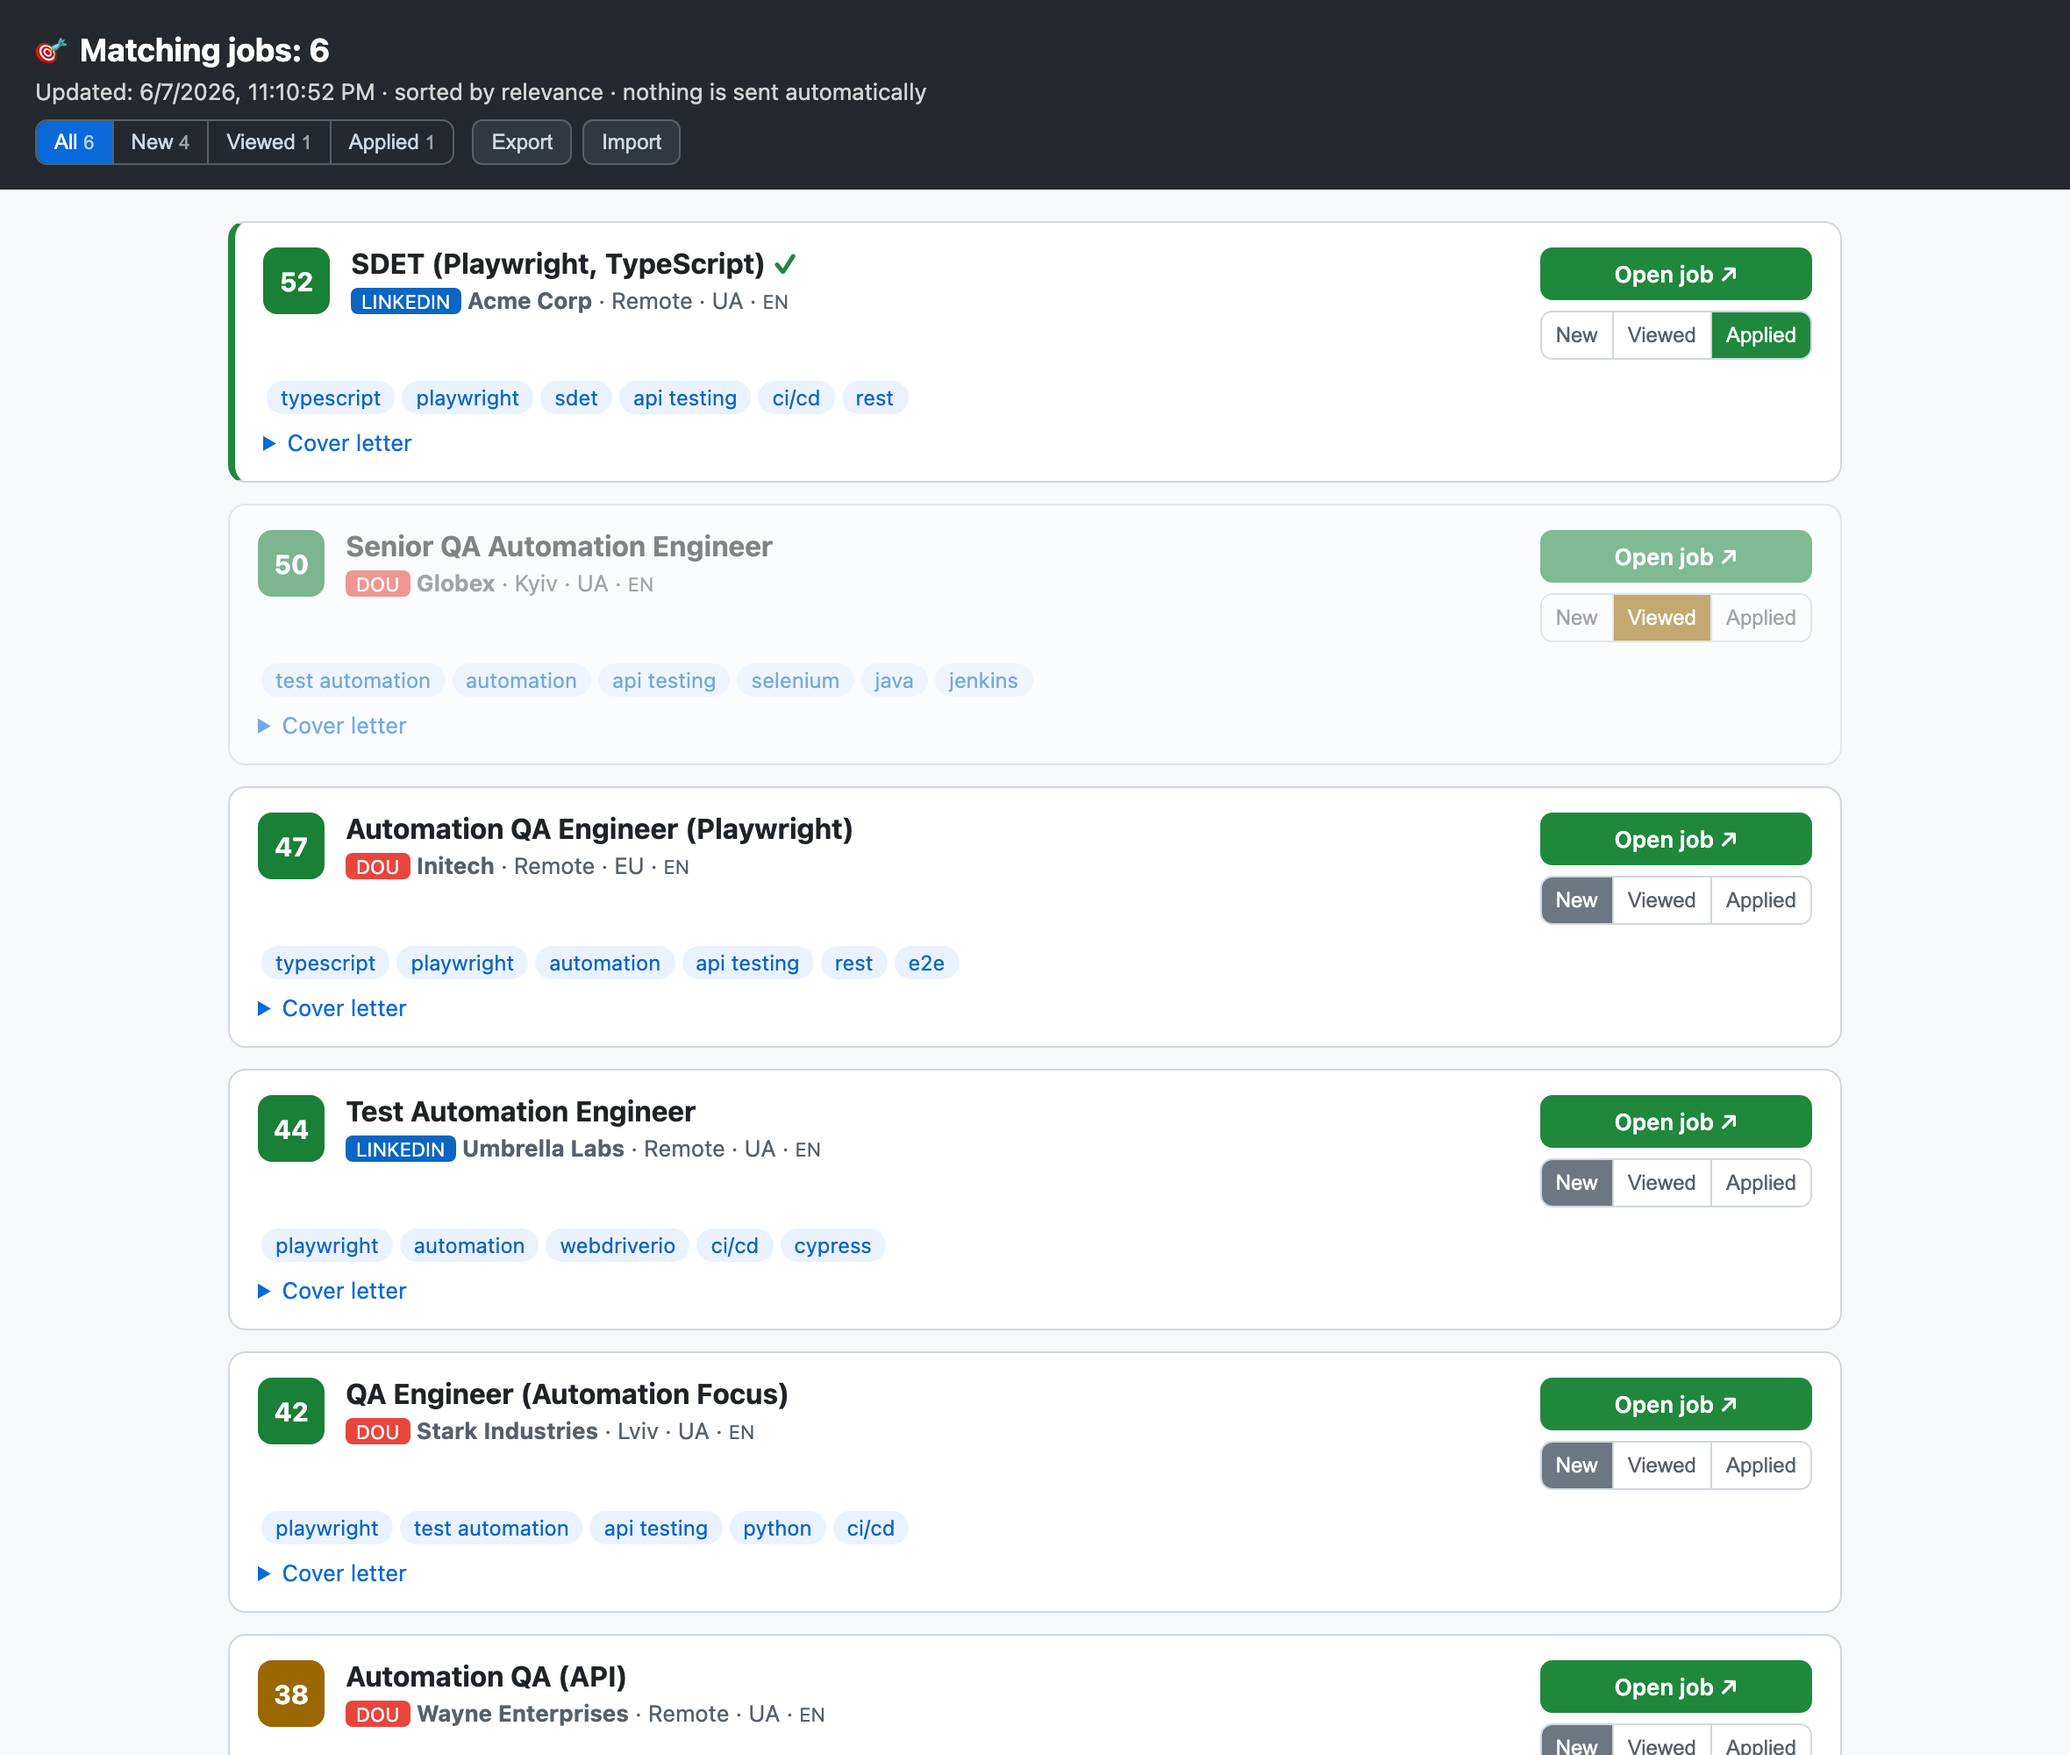
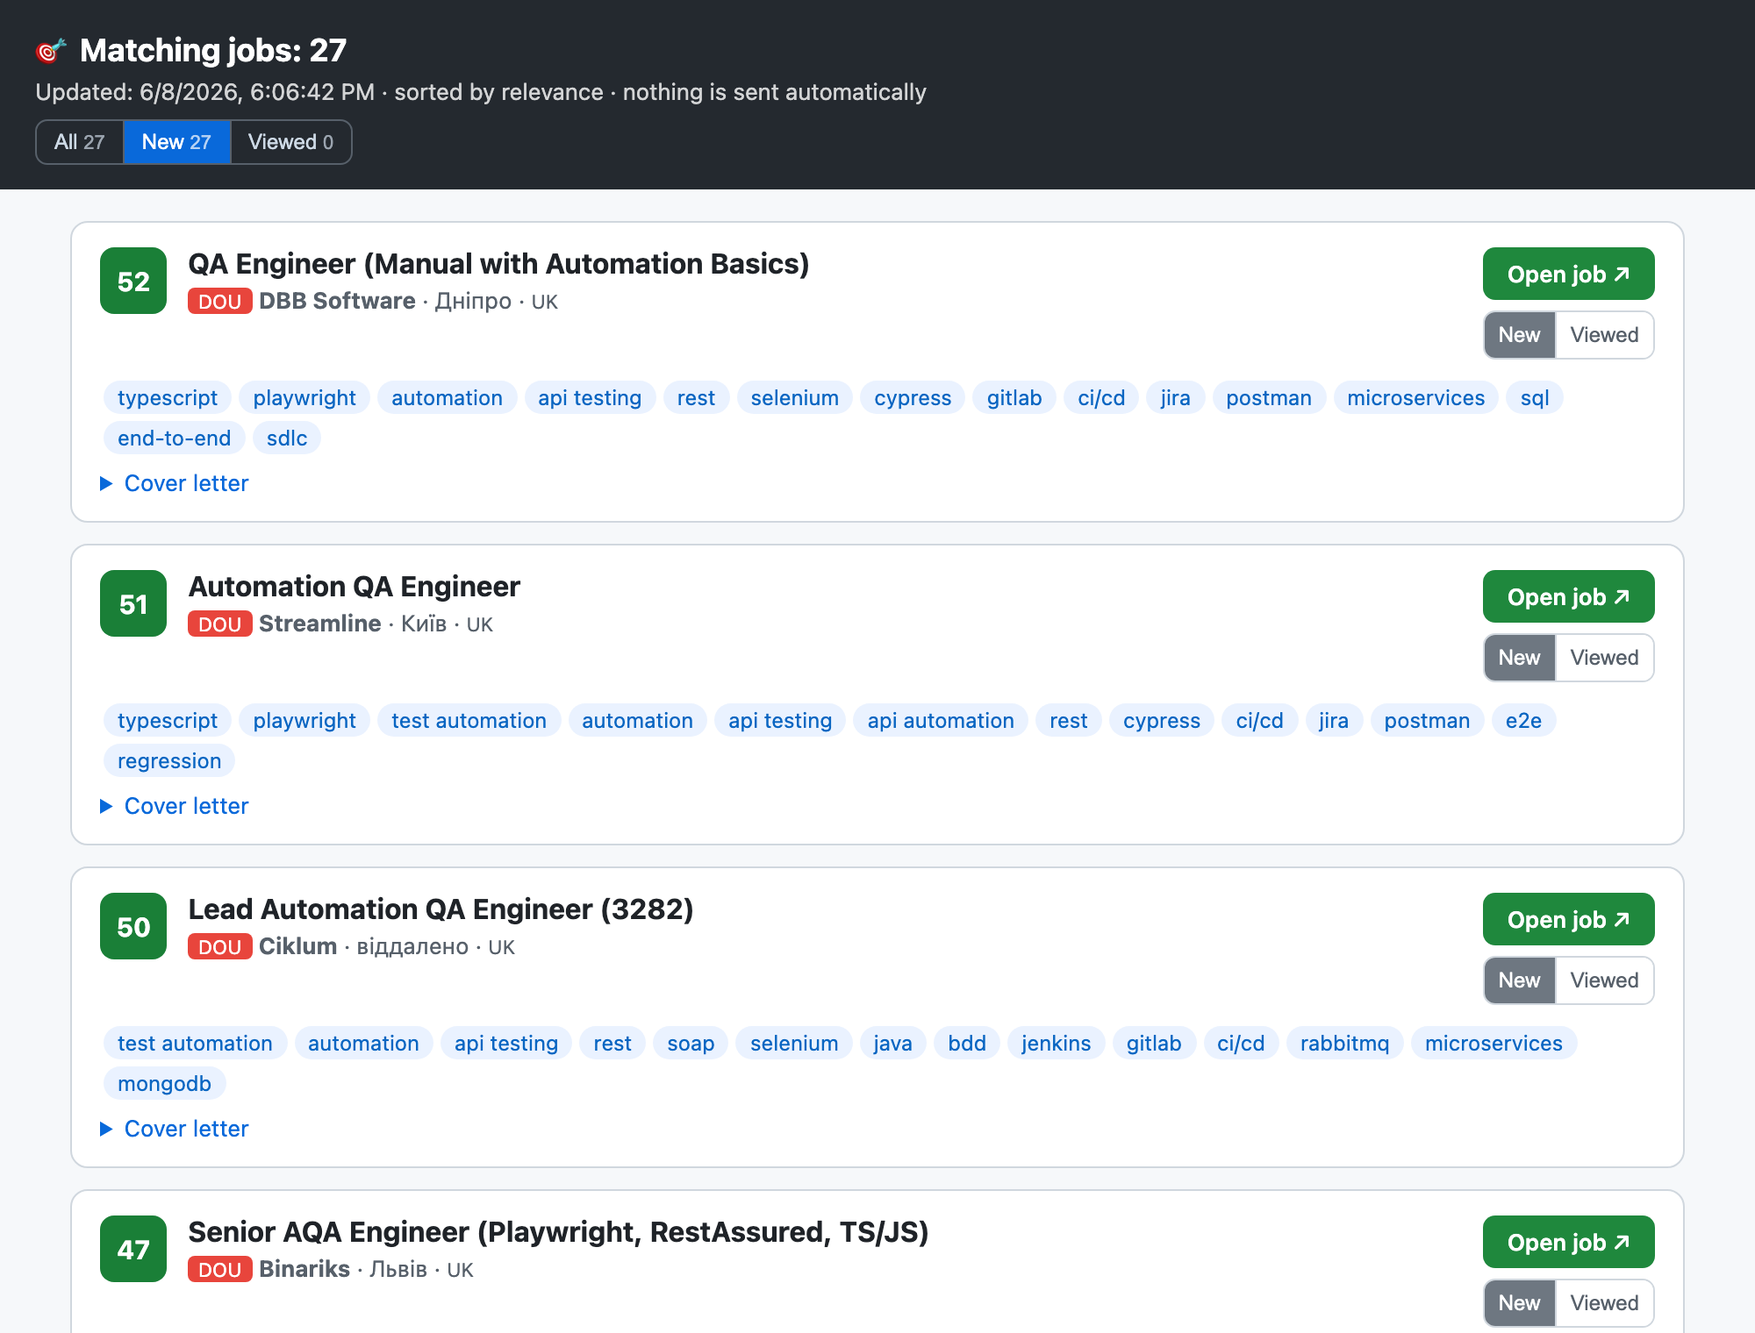
docs: refresh dashboard screenshot and drop removed features
Regenerate docs/dashboard.png from the current UI and update both READMEs
to remove references to the deleted Applied status and JSON Export/Import.

diff --git a/README.md b/README.md
@@ -30,8 +30,8 @@ click is always yours.
 
 **3. Dashboard & convenience**
 - **HTML dashboard** — all jobs on one page, sorted by relevance, with per-card
-  status tracking (New → Viewed → Applied), a status filter with counters, JSON
-  export/import, and a copy-letter button
+  status tracking (New → Viewed), a status filter with counters, and a
+  copy-letter button
 - **💼 Dock shortcut** — opens the latest dashboard in one click
 
 **4. Automation (launchd)**
@@ -97,9 +97,10 @@ node dashboard.mjs --open   # rebuild and open it
 ```
 
 Renders every package in `applications/` as a card, sorted by score. Per-card
-status (New / Viewed / Applied) is stored in the browser's localStorage keyed by
-job URL, so it survives dashboard regeneration. Use the header filter to focus on
-a status, and Export/Import to back up or move statuses between browsers.
+status (New / Viewed) is stored in the browser's localStorage keyed by job URL,
+so it survives dashboard regeneration. Opening a job link or expanding its cover
+letter marks the card Viewed automatically. Use the header filter to focus on a
+status.
 
 ## Tuning relevance — `skills.json`
 
